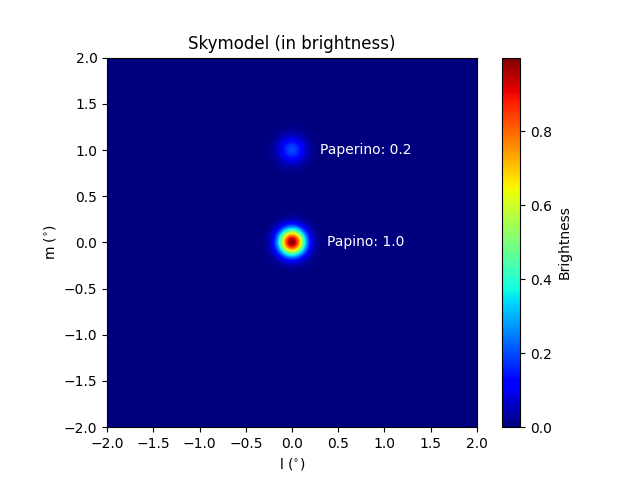
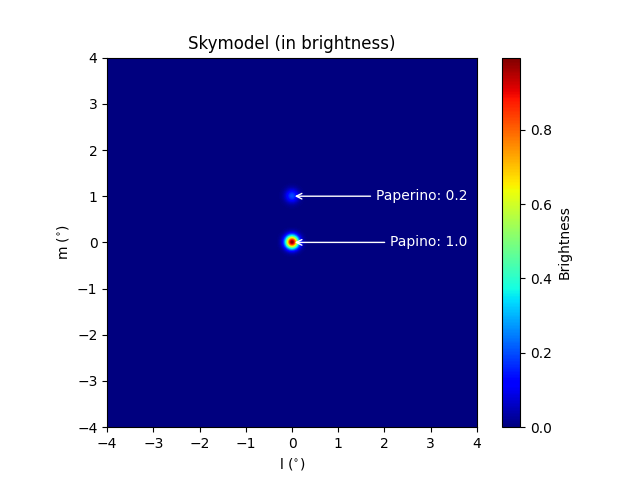
update

diff --git a/assignment2/PartB/simvis.py b/assignment2/PartB/simvis.py
@@ -178,8 +178,9 @@ class SimVis:
             flux = src.flux.values[0]
             l_deg = to_deg(l_rad)
             m_deg = to_deg(m_rad)
-            plt.annotate(f"{name}: {flux}", xy=(l_deg, m_deg), xytext=(l_deg+0.8, m_deg), fontsize='medium',
-                         ha='center', va='center', color='white')
+            plt.annotate(f"{name}: {flux}", xy=(l_deg, m_deg), xytext=(0.95 * self.lm_max, m_deg),
+                         fontsize='medium', ha='right', va='center', color='white',
+                         arrowprops=dict(facecolor='white', edgecolor='white', arrowstyle='->'))
         plt.colorbar(label='Brightness')
         plt.xlabel(r'l ($^{\circ}$)')
         plt.ylabel(r'm ($^{\circ}$)')
